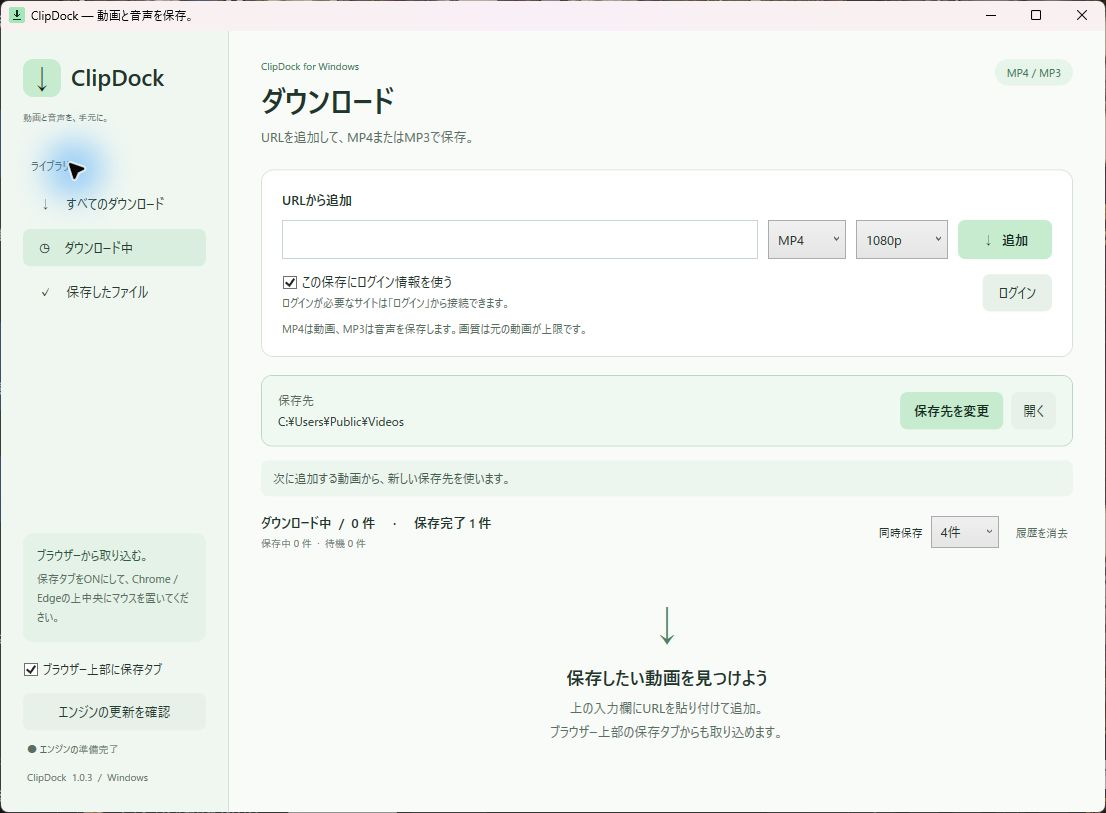
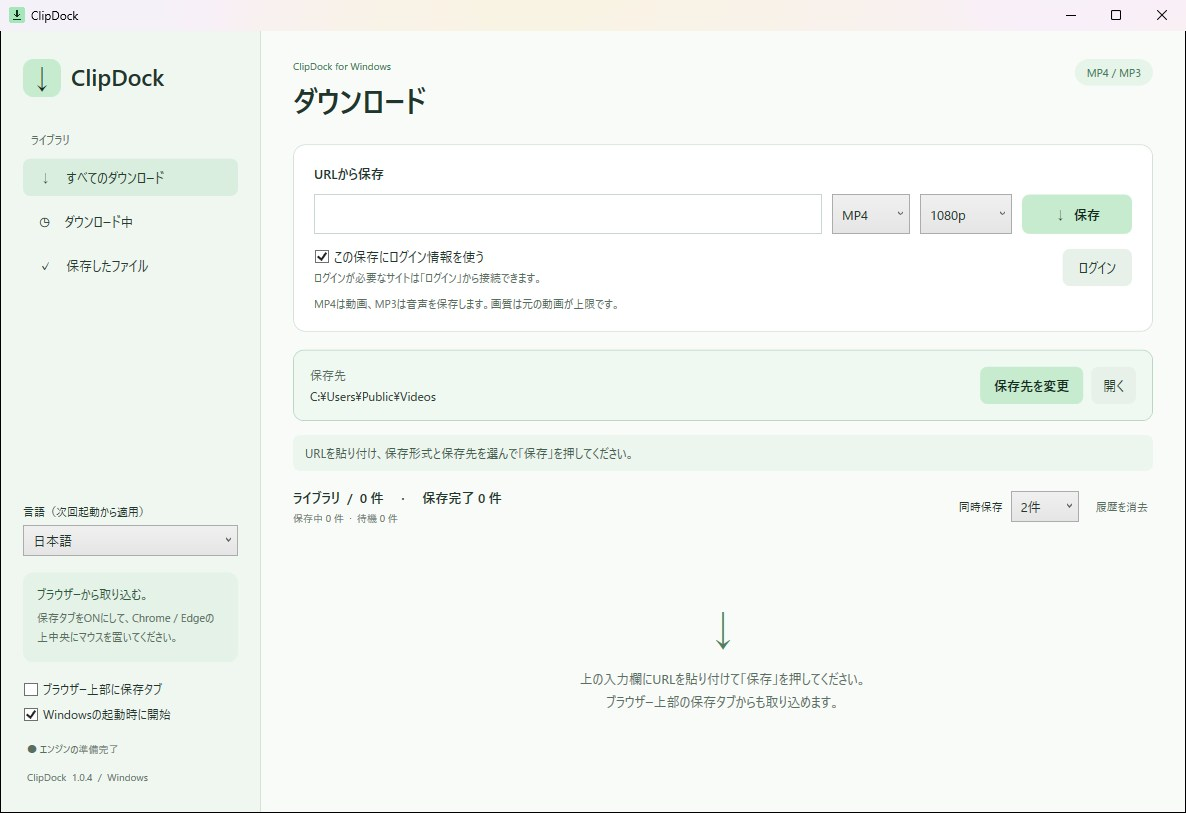
Show each language's app screenshot on its home page and fix the font per language
Every home page showed the Japanese 1.0.3 window. Each language now shows
the current Windows app in that language, and its home, help and privacy
pages use that screenshot as their page image. The site test requires a
separate screenshot per language.

Taking them showed the Windows app drew every language with Yu Gothic UI,
which turns a backslash into a yen sign and gives Chinese Japanese
letterforms. The main and login windows now pick the font by language
(Yu Gothic UI for Japanese, Microsoft YaHei UI for Chinese, Segoe UI for
English and Spanish), each with fallbacks for text in other scripts.

diff --git a/website/es/index.html b/website/es/index.html
@@ -18,7 +18,7 @@
 <meta property="og:title" content="ClipDock — Guarda vídeo MP4 y audio MP3 en Windows">
 <meta property="og:description" content="Pega una URL y guarda vídeo MP4 o audio MP3 en tu PC Windows o tu Mac. Descarga gratuita de ClipDock, guía de instalación, límites y política de privacidad.">
 <meta property="og:url" content="https://clipdock-d6z.pages.dev/es/">
-<meta property="og:image" content="https://clipdock-d6z.pages.dev/assets/clipdock-desktop.jpg">
+<meta property="og:image" content="https://clipdock-d6z.pages.dev/assets/clipdock-desktop-es.jpg">
 <meta property="og:locale" content="es_ES">
 <meta name="twitter:card" content="summary_large_image">
 <script type="application/ld+json">{"@context":"https://schema.org","@type":"SoftwareApplication","name":"ClipDock","url":"https://clipdock-d6z.pages.dev/es/","description":"Pega una URL y guarda vídeo MP4 o audio MP3 en tu PC Windows o tu Mac. Descarga gratuita de ClipDock, guía de instalación, límites y política de privacidad.","applicationCategory":"MultimediaApplication","operatingSystem":"Windows 10, Windows 11, macOS 14","softwareVersion":"1.0.4","downloadUrl":"https://clipdock-d6z.pages.dev/downloads/ClipDock-1.0.4-win-x64-unsigned-setup.exe","isAccessibleForFree":true,"inLanguage":["ja","en","zh-Hans","es"],"offers":{"@type":"Offer","price":"0","priceCurrency":"USD"}}</script>
@@ -34,7 +34,7 @@
 <p class="platform">Windows 10 / 11 (x64) · macOS 14 o posterior · Gratis</p><h1 id="title">Guarda vídeo en MP4.<br>Audio en MP3.</h1><p class="lead">Una aplicación para Windows y Mac para guardar vídeo y audio desde una URL. Elige el formato y la carpeta, y añade la descarga.</p>
 
 </div><aside class="format-summary"><h2>Elige el formato</h2><dl><div><dt>MP4</dt><dd>Guarda imagen y sonido</dd></div><div><dt>MP3</dt><dd>Guarda solo el audio</dd></div></dl><p>Los archivos se guardan en tu PC, en la carpeta que elijas.<br>Idiomas: 日本語 · English · 简体中文 · Español</p></aside><div class="download-block"><p class="download-heading">Descarga gratuita · Versión 1.0.4</p><div class="download-grid" role="group" aria-label="Descargar"><a class="button" href="/downloads/ClipDock-1.0.4-win-x64-unsigned-setup.exe" data-download="installer">Windows<small>Windows 10 / 11 (x64)</small></a><a class="button" href="/downloads/ClipDock-1.0.4-mac-arm64-unsigned.dmg" data-download="mac-arm64">Mac (Apple silicon)<small>macOS 14 o posterior · M1 o más reciente</small></a><a class="button" href="/downloads/ClipDock-1.0.4-mac-x64-unsigned.dmg" data-download="mac-x64">Mac (Intel)<small>macOS 14 o posterior · procesador Intel</small></a></div><div class="checksums"><p class="checksums-title">SHA-256 (haz clic en un valor para seleccionarlo entero)</p><dl class="checksum-list"><div><dt>Windows</dt><dd><code class="sha256" data-file="ClipDock-1.0.4-win-x64-unsigned-setup.exe">9ab8c0c8b8ba7f82e507894094b953b9c83245325be7d46764d8a8caf91376fa</code></dd></div><div><dt>Mac (Apple silicon)</dt><dd><code class="sha256" data-file="ClipDock-1.0.4-mac-arm64-unsigned.dmg">454e4417b3ebd2afcd8535cbd7252ed15af14fa085188835e9e61bb5db1fcc27</code></dd></div><div><dt>Mac (Intel)</dt><dd><code class="sha256" data-file="ClipDock-1.0.4-mac-x64-unsigned.dmg">8e6c31dba3816e717109e7c6b21b121c1461792eba690f2bebcb61bbdd407a80</code></dd></div></dl><p class="checksum-howto">Para comprobar un archivo, ejecuta <code>Get-FileHash nombre-del-archivo</code> en PowerShell (Windows) o <code>shasum -a 256 nombre-del-archivo</code> en Terminal (Mac) y compara el resultado con el valor de arriba. No importan las mayúsculas.</p></div><p class="download-note">El instalador de Windows no está firmado, por lo que Windows puede mostrar una advertencia de seguridad. La versión para Mac no está firmada ni certificada por Apple, por lo que macOS muestra una advertencia la primera vez que se abre.<br>Qué comprobar si aparece una advertencia: <a href="/es/help#windows-warning">Windows</a> · <a href="/es/help#mac-warning">Mac</a></p></div></section>
-<figure class="app-screen"><img src="/assets/clipdock-desktop.jpg" alt="ClipDock 1.0.3 para Windows · Interfaz en japonés" width="1106" height="813" fetchpriority="high"><figcaption>ClipDock 1.0.3 para Windows · Interfaz en japonés</figcaption></figure>
+<figure class="app-screen"><img src="/assets/clipdock-desktop-es.jpg" alt="ClipDock para Windows en español" width="1186" height="813" fetchpriority="high"><figcaption>ClipDock para Windows en español</figcaption></figure>
 <section id="features" class="section section-grid"><div class="section-heading"><h2>Elige formato, calidad y carpeta</h2></div><dl class="feature-list"><div><dt>Limita la resolución</dt><dd>Para MP4, elige 480p, 720p, 1080p, 4K o la mejor calidad disponible. 4K es un límite; ClipDock no amplía la resolución del original.</dd></div><div><dt>Consulta el progreso</dt><dd>Comprueba la descarga y la conversión, cancela una tarea o vuelve a intentarlo. Por defecto se procesan dos a la vez.</dd></div><div><dt>Añade una URL</dt><dd>Pega una URL HTTP(S) de una página o archivo de vídeo. En Windows, una pestaña opcional sobre Chrome o Edge también permite intentar importar la dirección.</dd></div></dl></section></div>
 <section class="installation" id="install"><div class="wrap section section-grid"><div class="section-heading"><h2>Primeros pasos</h2><p>El motor de descarga se obtiene automáticamente en el primer inicio.</p><a class="guide-link" href="/es/help#install">Leer la guía completa</a></div><ol class="steps"><li><h3>Instala ClipDock</h3><p>En Windows, descarga el EXE, cierra ClipDock y ejecuta el instalador. En Mac, abre el DMG y arrastra ClipDock a Aplicaciones.</p></li><li><h3>Abre la aplicación</h3><p>En el primer inicio se descarga el motor automáticamente. Requiere conexión a internet.</p></li><li><h3>Pega una URL y guarda</h3><p>Pega la URL en 「URLから保存」, elige MP4 o MP3 y una carpeta, y pulsa 「保存」 (Guardar).</p></li></ol></div></section>
 <div class="wrap"><section class="section section-grid" id="faq"><div class="section-heading"><h2>Preguntas frecuentes</h2></div><dl class="faq-list"><div><dt>¿Qué vídeos puedo guardar?</dt><dd>El motor permite descargar desde sitios compatibles y medios sin DRM, como HLS/DASH. Los cambios del sitio o sus condiciones de acceso pueden impedirlo. Descarga únicamente contenido que tengas derecho a guardar.</dd></div><div><dt>¿Funciona con vídeos que requieren iniciar sesión?</dt><dd>«Usar los datos de acceso para esta descarga» está activado por defecto. Primero inicia sesión en el sitio de origen desde la ventana de acceso de la aplicación, separada de Chrome y Edge. Las restricciones del sitio o la disponibilidad del contenido pueden impedir la descarga incluso con sesión iniciada.</dd></div><div><dt>¿Elegir 4K mejora la calidad?</dt><dd>La resolución seleccionada es un límite. Si la fuente solo ofrece 1080p, elegir 4K sigue dando como máximo 1080p. ClipDock no amplía la resolución.</dd></div><div><dt>¿Por qué Windows muestra una advertencia?</dt><dd>El instalador actual no tiene firma de código y Windows no puede verificar su editor. Comprueba que lo has descargado de este sitio oficial. La ayuda explica cómo revisar la advertencia.</dd></div><div><dt>¿Por qué macOS muestra una advertencia?</dt><dd>La versión actual para Mac no tiene firma de Apple Developer ID ni certificación de Apple, por lo que macOS no puede verificar al desarrollador. Comprueba que la has descargado de este sitio oficial. La ayuda explica cómo abrirla.</dd></div></dl></section><div class="bottom-download"><p>Windows 10 / 11 (x64) · macOS 14 o posterior · Gratis · Versión 1.0.4</p><div class="download-grid" role="group" aria-label="Descargar"><a class="button" href="/downloads/ClipDock-1.0.4-win-x64-unsigned-setup.exe" data-download="installer">Windows<small>Windows 10 / 11 (x64)</small></a><a class="button" href="/downloads/ClipDock-1.0.4-mac-arm64-unsigned.dmg" data-download="mac-arm64">Mac (Apple silicon)<small>macOS 14 o posterior · M1 o más reciente</small></a><a class="button" href="/downloads/ClipDock-1.0.4-mac-x64-unsigned.dmg" data-download="mac-x64">Mac (Intel)<small>macOS 14 o posterior · procesador Intel</small></a></div></div></div>

diff --git a/website/en/index.html b/website/en/index.html
@@ -18,7 +18,7 @@
 <meta property="og:title" content="ClipDock — Save MP4 video and MP3 audio on Windows">
 <meta property="og:description" content="Paste a video URL and save MP4 video or MP3 audio on your Windows PC or Mac. Free ClipDock download, setup instructions, limitations and privacy policy.">
 <meta property="og:url" content="https://clipdock-d6z.pages.dev/en/">
-<meta property="og:image" content="https://clipdock-d6z.pages.dev/assets/clipdock-desktop.jpg">
+<meta property="og:image" content="https://clipdock-d6z.pages.dev/assets/clipdock-desktop-en.jpg">
 <meta property="og:locale" content="en_US">
 <meta name="twitter:card" content="summary_large_image">
 <script type="application/ld+json">{"@context":"https://schema.org","@type":"SoftwareApplication","name":"ClipDock","url":"https://clipdock-d6z.pages.dev/en/","description":"Paste a video URL and save MP4 video or MP3 audio on your Windows PC or Mac. Free ClipDock download, setup instructions, limitations and privacy policy.","applicationCategory":"MultimediaApplication","operatingSystem":"Windows 10, Windows 11, macOS 14","softwareVersion":"1.0.4","downloadUrl":"https://clipdock-d6z.pages.dev/downloads/ClipDock-1.0.4-win-x64-unsigned-setup.exe","isAccessibleForFree":true,"inLanguage":["ja","en","zh-Hans","es"],"offers":{"@type":"Offer","price":"0","priceCurrency":"USD"}}</script>
@@ -34,7 +34,7 @@
 <p class="platform">Windows 10 / 11 (x64) · macOS 14 or later · Free</p><h1 id="title">Save video as MP4.<br>Save audio as MP3.</h1><p class="lead">An app for Windows and Mac for saving video and audio from a URL. Choose a format and a folder, then add the download.</p>
 
 </div><aside class="format-summary"><h2>Choose a format</h2><dl><div><dt>MP4</dt><dd>Save video and audio</dd></div><div><dt>MP3</dt><dd>Save audio only</dd></div></dl><p>Files stay on your PC, in the folder you choose.<br>App languages: 日本語 · English · 简体中文 · Español</p></aside><div class="download-block"><p class="download-heading">Free download · Version 1.0.4</p><div class="download-grid" role="group" aria-label="Download"><a class="button" href="/downloads/ClipDock-1.0.4-win-x64-unsigned-setup.exe" data-download="installer">Windows<small>Windows 10 / 11 (x64)</small></a><a class="button" href="/downloads/ClipDock-1.0.4-mac-arm64-unsigned.dmg" data-download="mac-arm64">Mac (Apple silicon)<small>macOS 14 or later · M1 or newer</small></a><a class="button" href="/downloads/ClipDock-1.0.4-mac-x64-unsigned.dmg" data-download="mac-x64">Mac (Intel)<small>macOS 14 or later · Intel processor</small></a></div><div class="checksums"><p class="checksums-title">SHA-256 (click a value to select all of it)</p><dl class="checksum-list"><div><dt>Windows</dt><dd><code class="sha256" data-file="ClipDock-1.0.4-win-x64-unsigned-setup.exe">9ab8c0c8b8ba7f82e507894094b953b9c83245325be7d46764d8a8caf91376fa</code></dd></div><div><dt>Mac (Apple silicon)</dt><dd><code class="sha256" data-file="ClipDock-1.0.4-mac-arm64-unsigned.dmg">454e4417b3ebd2afcd8535cbd7252ed15af14fa085188835e9e61bb5db1fcc27</code></dd></div><div><dt>Mac (Intel)</dt><dd><code class="sha256" data-file="ClipDock-1.0.4-mac-x64-unsigned.dmg">8e6c31dba3816e717109e7c6b21b121c1461792eba690f2bebcb61bbdd407a80</code></dd></div></dl><p class="checksum-howto">To check a file, run <code>Get-FileHash file-name</code> in PowerShell on Windows or <code>shasum -a 256 file-name</code> in Terminal on Mac, and compare the result with the value above. Letter case does not matter.</p></div><p class="download-note">The Windows installer is unsigned, so Windows may show a security warning. The Mac version is not signed or notarized, so macOS shows a warning the first time you open it.<br>What to check if a warning appears: <a href="/en/help#windows-warning">Windows</a> · <a href="/en/help#mac-warning">Mac</a></p></div></section>
-<figure class="app-screen"><img src="/assets/clipdock-desktop.jpg" alt="ClipDock 1.0.3 for Windows · Japanese app interface" width="1106" height="813" fetchpriority="high"><figcaption>ClipDock 1.0.3 for Windows · Japanese app interface</figcaption></figure>
+<figure class="app-screen"><img src="/assets/clipdock-desktop-en.jpg" alt="ClipDock for Windows in English" width="1186" height="813" fetchpriority="high"><figcaption>ClipDock for Windows in English</figcaption></figure>
 <section id="features" class="section section-grid"><div class="section-heading"><h2>Choose the format, quality and folder</h2></div><dl class="feature-list"><div><dt>Set a quality limit</dt><dd>Choose 480p, 720p, 1080p, 4K or best available for MP4. 4K is a resolution limit; ClipDock does not upscale the source.</dd></div><div><dt>Follow each download</dt><dd>See download and conversion progress, cancel a job or retry it. The default is two downloads at a time.</dd></div><div><dt>Add a URL</dt><dd>Paste an HTTP(S) video page or media URL. On Windows, an optional tab above Chrome or Edge can also try to import the address.</dd></div></dl></section></div>
 <section class="installation" id="install"><div class="wrap section section-grid"><div class="section-heading"><h2>Getting started</h2><p>The download engine is fetched automatically on first launch.</p><a class="guide-link" href="/en/help#install">Read the full guide</a></div><ol class="steps"><li><h3>Install ClipDock</h3><p>On Windows, download the EXE, close ClipDock and run the installer. On Mac, open the DMG and drag ClipDock into Applications.</p></li><li><h3>Open the app</h3><p>The first launch downloads the download engine automatically. This requires an internet connection.</p></li><li><h3>Paste a URL and save</h3><p>Paste a video URL into 「URLから保存」, choose MP4 or MP3 and a folder, then click 「保存」 (Save).</p></li></ol></div></section>
 <div class="wrap"><section class="section section-grid" id="faq"><div class="section-heading"><h2>Frequently asked questions</h2></div><dl class="faq-list"><div><dt>Which videos can I save?</dt><dd>Supported sites and non-DRM media such as HLS/DASH are handled by the download engine. Site changes and access conditions may prevent a download. Only download media you have the right to save.</dd></div><div><dt>Can it save videos that require a login?</dt><dd>“Use login information for this download” is on by default. Sign in to the site you want to save from through the app's Login window first. This is separate from existing Chrome or Edge sessions. A site's restrictions or a post's availability may still prevent a download.</dd></div><div><dt>Does choosing 4K improve the source?</dt><dd>The selected resolution is a limit. If the source is only available at 1080p, choosing 4K still gives you up to 1080p. ClipDock does not upscale it.</dd></div><div><dt>Why does Windows show a warning?</dt><dd>The current installer has no code signature, so Windows cannot verify its publisher. Check that you downloaded it from this official site. The help page explains how to review the warning.</dd></div><div><dt>Why does macOS show a warning?</dt><dd>The current Mac version has no Apple Developer ID signature or notarization, so macOS cannot verify its developer. Check that you downloaded it from this official site. The help page explains how to open it.</dd></div></dl></section><div class="bottom-download"><p>Windows 10 / 11 (x64) · macOS 14 or later · Free · Version 1.0.4</p><div class="download-grid" role="group" aria-label="Download"><a class="button" href="/downloads/ClipDock-1.0.4-win-x64-unsigned-setup.exe" data-download="installer">Windows<small>Windows 10 / 11 (x64)</small></a><a class="button" href="/downloads/ClipDock-1.0.4-mac-arm64-unsigned.dmg" data-download="mac-arm64">Mac (Apple silicon)<small>macOS 14 or later · M1 or newer</small></a><a class="button" href="/downloads/ClipDock-1.0.4-mac-x64-unsigned.dmg" data-download="mac-x64">Mac (Intel)<small>macOS 14 or later · Intel processor</small></a></div></div></div>

diff --git a/website/zh-cn/index.html b/website/zh-cn/index.html
@@ -18,7 +18,7 @@
 <meta property="og:title" content="ClipDock — 在 Windows 和 Mac 上保存 MP4 视频和 MP3 音频">
 <meta property="og:description" content="粘贴视频网址，将 MP4 视频或 MP3 音频保存到 Windows 电脑或 Mac。免费下载 ClipDock，查看安装步骤、适用范围和隐私政策。">
 <meta property="og:url" content="https://clipdock-d6z.pages.dev/zh-cn/">
-<meta property="og:image" content="https://clipdock-d6z.pages.dev/assets/clipdock-desktop.jpg">
+<meta property="og:image" content="https://clipdock-d6z.pages.dev/assets/clipdock-desktop-zh-cn.jpg">
 <meta property="og:locale" content="zh_CN">
 <meta name="twitter:card" content="summary_large_image">
 <script type="application/ld+json">{"@context":"https://schema.org","@type":"SoftwareApplication","name":"ClipDock","url":"https://clipdock-d6z.pages.dev/zh-cn/","description":"粘贴视频网址，将 MP4 视频或 MP3 音频保存到 Windows 电脑或 Mac。免费下载 ClipDock，查看安装步骤、适用范围和隐私政策。","applicationCategory":"MultimediaApplication","operatingSystem":"Windows 10, Windows 11, macOS 14","softwareVersion":"1.0.4","downloadUrl":"https://clipdock-d6z.pages.dev/downloads/ClipDock-1.0.4-win-x64-unsigned-setup.exe","isAccessibleForFree":true,"inLanguage":["ja","en","zh-Hans","es"],"offers":{"@type":"Offer","price":"0","priceCurrency":"USD"}}</script>
@@ -34,7 +34,7 @@
 <p class="platform">Windows 10 / 11（x64） · macOS 14 及以上 · 免费</p><h1 id="title">视频保存为 MP4，<br>音频保存为 MP3。</h1><p class="lead">粘贴视频网址，选择格式和保存文件夹，即可在 Windows 电脑或 Mac 上保存视频或音频。</p>
 
 </div><aside class="format-summary"><h2>选择保存格式</h2><dl><div><dt>MP4</dt><dd>保存画面和声音</dd></div><div><dt>MP3</dt><dd>仅保存音频</dd></div></dl><p>文件保存在自己的电脑上，可自行选择文件夹。<br>应用语言：日本語 · English · 简体中文 · Español</p></aside><div class="download-block"><p class="download-heading">免费下载 · 版本 1.0.4</p><div class="download-grid" role="group" aria-label="下载"><a class="button" href="/downloads/ClipDock-1.0.4-win-x64-unsigned-setup.exe" data-download="installer">Windows 版<small>Windows 10 / 11（x64）</small></a><a class="button" href="/downloads/ClipDock-1.0.4-mac-arm64-unsigned.dmg" data-download="mac-arm64">Mac 版（Apple 芯片）<small>macOS 14 及以上 · M1 及更新机型</small></a><a class="button" href="/downloads/ClipDock-1.0.4-mac-x64-unsigned.dmg" data-download="mac-x64">Mac 版（Intel）<small>macOS 14 及以上 · Intel 处理器</small></a></div><div class="checksums"><p class="checksums-title">SHA-256（点击即可选中整个值）</p><dl class="checksum-list"><div><dt>Windows</dt><dd><code class="sha256" data-file="ClipDock-1.0.4-win-x64-unsigned-setup.exe">9ab8c0c8b8ba7f82e507894094b953b9c83245325be7d46764d8a8caf91376fa</code></dd></div><div><dt>Mac（Apple 芯片）</dt><dd><code class="sha256" data-file="ClipDock-1.0.4-mac-arm64-unsigned.dmg">454e4417b3ebd2afcd8535cbd7252ed15af14fa085188835e9e61bb5db1fcc27</code></dd></div><div><dt>Mac（Intel）</dt><dd><code class="sha256" data-file="ClipDock-1.0.4-mac-x64-unsigned.dmg">8e6c31dba3816e717109e7c6b21b121c1461792eba690f2bebcb61bbdd407a80</code></dd></div></dl><p class="checksum-howto">校验方法：在 Windows 的 PowerShell 中运行 <code>Get-FileHash 文件名</code>，或在 Mac 的终端中运行 <code>shasum -a 256 文件名</code>，并与上面的值比较。字母不区分大小写。</p></div><p class="download-note">Windows 版安装程序未进行代码签名，Windows 可能会显示安全警告。Mac 版未经签名和公证，首次打开时 macOS 会显示警告。<br>出现警告时如何确认：<a href="/zh-cn/help#windows-warning">Windows</a> · <a href="/zh-cn/help#mac-warning">Mac</a></p></div></section>
-<figure class="app-screen"><img src="/assets/clipdock-desktop.jpg" alt="ClipDock 1.0.3 Windows 应用界面（日语）" width="1106" height="813" fetchpriority="high"><figcaption>ClipDock 1.0.3 Windows 应用界面（日语）</figcaption></figure>
+<figure class="app-screen"><img src="/assets/clipdock-desktop-zh-cn.jpg" alt="ClipDock Windows 应用界面（简体中文）" width="1186" height="813" fetchpriority="high"><figcaption>ClipDock Windows 应用界面（简体中文）</figcaption></figure>
 <section id="features" class="section section-grid"><div class="section-heading"><h2>指定格式、画质和保存位置</h2></div><dl class="feature-list"><div><dt>设置画质上限</dt><dd>MP4 可选择 480p、720p、1080p、4K 或最佳可用画质。4K 是分辨率上限，不会将原视频放大。</dd></div><div><dt>查看保存进度</dt><dd>查看下载和转换进度，按需取消或重试。默认同时处理两个任务。</dd></div><div><dt>通过网址添加</dt><dd>输入视频页面或媒体文件的 HTTP(S) 网址，Windows 版还可尝试使用 Chrome、Edge 上方的可选标签导入地址。</dd></div></dl></section></div>
 <section class="installation" id="install"><div class="wrap section section-grid"><div class="section-heading"><h2>开始使用</h2><p>首次启动时会自动下载引擎。</p><a class="guide-link" href="/zh-cn/help#install">查看完整使用说明</a></div><ol class="steps"><li><h3>安装应用</h3><p>Windows 用户请下载 EXE，关闭 ClipDock 后运行安装程序。Mac 用户请打开 DMG，将 ClipDock 拖入“应用程序”。</p></li><li><h3>打开应用</h3><p>首次启动时会自动下载引擎，需要联网。</p></li><li><h3>粘贴网址并保存</h3><p>在「URLから保存」中粘贴视频网址，选择 MP4 或 MP3 及保存位置，然后点击「保存」（保存）。</p></li></ol></div></section>
 <div class="wrap"><section class="section section-grid" id="faq"><div class="section-heading"><h2>常见问题</h2></div><dl class="faq-list"><div><dt>可以保存哪些视频？</dt><dd>支持下载引擎可处理的网站视频以及未受 DRM 保护的 HLS、DASH 等媒体。网站变化或访问条件可能导致无法保存。请仅下载您有权保存的内容。</dd></div><div><dt>可以保存需要登录的视频吗？</dt><dd>“在此次保存中使用登录信息”默认开启。首次使用时，请通过应用的登录窗口登录您要保存内容的网站，与 Chrome、Edge 的现有会话分开。即使已登录，网站限制或帖子的公开状态仍可能导致无法保存。</dd></div><div><dt>选择 4K 会提升画质吗？</dt><dd>所选分辨率是上限。如果源视频最高为 1080p，选择 4K 后仍最多保存为 1080p，不会进行放大处理。</dd></div><div><dt>为什么 Windows 会显示警告？</dt><dd>当前安装程序未进行代码签名，Windows 无法验证发布者。请确认文件来自本官方网站。帮助页提供了详细的确认方法。</dd></div><div><dt>为什么 macOS 会显示警告？</dt><dd>当前 Mac 版没有 Apple Developer ID 签名，也未经公证，macOS 无法验证开发者。请确认文件来自本官方网站。帮助页说明了打开方法。</dd></div></dl></section><div class="bottom-download"><p>Windows 10 / 11（x64） · macOS 14 及以上 · 免费 · 版本 1.0.4</p><div class="download-grid" role="group" aria-label="下载"><a class="button" href="/downloads/ClipDock-1.0.4-win-x64-unsigned-setup.exe" data-download="installer">Windows 版<small>Windows 10 / 11（x64）</small></a><a class="button" href="/downloads/ClipDock-1.0.4-mac-arm64-unsigned.dmg" data-download="mac-arm64">Mac 版（Apple 芯片）<small>macOS 14 及以上 · M1 及更新机型</small></a><a class="button" href="/downloads/ClipDock-1.0.4-mac-x64-unsigned.dmg" data-download="mac-x64">Mac 版（Intel）<small>macOS 14 及以上 · Intel 处理器</small></a></div></div></div>

diff --git a/website/index.html b/website/index.html
@@ -34,7 +34,7 @@
 <p class="platform">Windows 10 / 11（x64） · macOS 14以降 · 無料</p><h1 id="title">動画はMP4、<br>音声はMP3で保存。</h1><p class="lead">動画のURLを貼り付け、形式と保存先を選んで保存するWindows・Mac用アプリです。</p>
 
 </div><aside class="format-summary"><h2>保存する形式を選ぶ</h2><dl><div><dt>MP4</dt><dd>映像と音声を保存</dd></div><div><dt>MP3</dt><dd>音声だけを保存</dd></div></dl><p>保存先は自分のPC。フォルダーを指定できます。<br>アプリの表示言語：日本語・English・简体中文・Español</p></aside><div class="download-block"><p class="download-heading">無料ダウンロード · バージョン 1.0.4</p><div class="download-grid" role="group" aria-label="ダウンロード"><a class="button" href="/downloads/ClipDock-1.0.4-win-x64-unsigned-setup.exe" data-download="installer">Windows版<small>Windows 10 / 11（x64）</small></a><a class="button" href="/downloads/ClipDock-1.0.4-mac-arm64-unsigned.dmg" data-download="mac-arm64">Mac版（Appleシリコン）<small>macOS 14以降 · M1以降のMac</small></a><a class="button" href="/downloads/ClipDock-1.0.4-mac-x64-unsigned.dmg" data-download="mac-x64">Mac版（Intel）<small>macOS 14以降 · Intel搭載のMac</small></a></div><div class="checksums"><p class="checksums-title">SHA-256（クリックすると値全体を選択できます）</p><dl class="checksum-list"><div><dt>Windows</dt><dd><code class="sha256" data-file="ClipDock-1.0.4-win-x64-unsigned-setup.exe">9ab8c0c8b8ba7f82e507894094b953b9c83245325be7d46764d8a8caf91376fa</code></dd></div><div><dt>Mac（Appleシリコン）</dt><dd><code class="sha256" data-file="ClipDock-1.0.4-mac-arm64-unsigned.dmg">454e4417b3ebd2afcd8535cbd7252ed15af14fa085188835e9e61bb5db1fcc27</code></dd></div><div><dt>Mac（Intel）</dt><dd><code class="sha256" data-file="ClipDock-1.0.4-mac-x64-unsigned.dmg">8e6c31dba3816e717109e7c6b21b121c1461792eba690f2bebcb61bbdd407a80</code></dd></div></dl><p class="checksum-howto">確認方法：WindowsはPowerShellで <code>Get-FileHash ファイル名</code>、Macはターミナルで <code>shasum -a 256 ファイル名</code> を実行し、上の値と比べます。英字の大文字・小文字は区別しません。</p></div><p class="download-note">Windows版のインストーラーは未署名のため、Windowsに警告が表示される場合があります。Mac版は署名・公証がないため、初回の起動時にmacOSが警告を表示します。<br>警告が出たときの確認方法：<a href="/help#windows-warning">Windows</a> · <a href="/help#mac-warning">Mac</a></p></div></section>
-<figure class="app-screen"><img src="/assets/clipdock-desktop.jpg" alt="ClipDock 1.0.3のWindowsアプリ画面" width="1106" height="813" fetchpriority="high"><figcaption>ClipDock 1.0.3のWindowsアプリ画面</figcaption></figure>
+<figure class="app-screen"><img src="/assets/clipdock-desktop.jpg" alt="ClipDockのWindowsアプリ画面" width="1186" height="813" fetchpriority="high"><figcaption>ClipDockのWindowsアプリ画面</figcaption></figure>
 <section id="features" class="section section-grid"><div class="section-heading"><h2>形式、画質、保存先を指定</h2></div><dl class="feature-list"><div><dt>画質の上限を選ぶ</dt><dd>MP4は480p・720p・1080p・4K・最高画質から選べます。4Kは解像度の上限で、元の動画を拡大する機能ではありません。</dd></div><div><dt>保存状況を確認する</dt><dd>取得・変換の進捗を確認し、必要に応じてキャンセルや再試行ができます。初期設定では2件を同時に保存します。</dd></div><div><dt>URLから保存する</dt><dd>動画ページや動画ファイルのHTTP(S) URLを入力します。Windows版ではChrome・Edge向けの任意の保存タブから、URLの取り込みを試すこともできます。</dd></div></dl></section></div>
 <section class="installation" id="install"><div class="wrap section section-grid"><div class="section-heading"><h2>はじめ方</h2><p>保存エンジンは初回の起動時に自動で取得します。</p><a class="guide-link" href="/help#install">詳しい使い方</a></div><ol class="steps"><li><h3>アプリをインストール</h3><p>WindowsではEXEを取得し、起動中のClipDockを閉じてから実行します。MacではDMGを開き、ClipDockを「アプリケーション」へドラッグします。</p></li><li><h3>アプリを起動</h3><p>初回の起動時に保存エンジンを自動で取得します。取得にはインターネット接続が必要です。</p></li><li><h3>URLを貼り付けて保存</h3><p>「URLから保存」に動画のURLを貼り付け、MP4またはMP3と保存先を選び、「保存」を押します。</p></li></ol></div></section>
 <div class="wrap"><section class="section section-grid" id="faq"><div class="section-heading"><h2>よくある質問</h2></div><dl class="faq-list"><div><dt>どの動画を保存できますか？</dt><dd>保存エンジンが対応するサイトの動画と、非DRMのHLS/DASHなどが対象です。サイトの変更や公開条件により、保存できない場合があります。ダウンロードする権利のある動画に利用してください。</dd></div><div><dt>ログインが必要な動画にも使えますか？</dt><dd>「この保存にログイン情報を使う」は初期ONです。初回はアプリの「ログイン」から保存対象のサイトへサインインしてください。Chrome・Edgeの既存セッションとは別です。投稿の公開条件やサイト制限によっては、ログインしても保存できない場合があります。</dd></div><div><dt>4Kを選ぶと画質が上がりますか？</dt><dd>指定した解像度は上限です。元の配信が1080pまでなら、4Kを選んでも1080pになります。拡大処理は行いません。</dd></div><div><dt>Windowsに警告が出るのはなぜですか？</dt><dd>現在のインストーラーにはコード署名がなく、Windowsが発行元を確認できません。公式サイトから取得したことを確認してください。詳しい確認方法はヘルプに記載しています。</dd></div><div><dt>Macで警告が出るのはなぜですか？</dt><dd>現在のMac版にはApple Developer IDの署名と公証がなく、macOSが開発元を確認できません。公式サイトから取得したことを確認してください。開く手順はヘルプに記載しています。</dd></div></dl></section><div class="bottom-download"><p>Windows 10 / 11（x64） · macOS 14以降 · 無料 · バージョン 1.0.4</p><div class="download-grid" role="group" aria-label="ダウンロード"><a class="button" href="/downloads/ClipDock-1.0.4-win-x64-unsigned-setup.exe" data-download="installer">Windows版<small>Windows 10 / 11（x64）</small></a><a class="button" href="/downloads/ClipDock-1.0.4-mac-arm64-unsigned.dmg" data-download="mac-arm64">Mac版（Appleシリコン）<small>macOS 14以降 · M1以降のMac</small></a><a class="button" href="/downloads/ClipDock-1.0.4-mac-x64-unsigned.dmg" data-download="mac-x64">Mac版（Intel）<small>macOS 14以降 · Intel搭載のMac</small></a></div></div></div>

diff --git a/tests/site.test.js b/tests/site.test.js
@@ -66,6 +66,20 @@ test("download links name the current release and are served by the download fun
   }
 });
 
+// Each language shows (and shares) a screenshot of the app in that language.
+test("every home page shows its own language's app screenshot, also as the page image of its language", () => {
+  const screenshots = new Set();
+  for (const prefix of Object.keys(languages)) {
+    const figure = byUrl.get(`/${prefix}`).html.match(/<figure class="app-screen">[\s\S]*?<\/figure>/);
+    assert.ok(figure, `/${prefix} has no app screenshot`);
+    const image = tags(figure[0], "img")[0];
+    screenshots.add(image.src);
+    for (const name of ["", "help", "privacy"])
+      assert.equal(tags(byUrl.get(`/${prefix}${name}`).html, "meta").find(t => t.property === "og:image")?.content, origin + image.src, `/${prefix}${name}`);
+  }
+  assert.equal(screenshots.size, Object.keys(languages).length, "two languages share one screenshot");
+});
+
 // The checksums are printed on each home page for copying instead of being linked as .sha256 downloads.
 test("every home page shows one SHA-256 per release file, the same in every language", () => {
   let reference;

diff --git a/website/zh-cn/help.html b/website/zh-cn/help.html
@@ -18,7 +18,7 @@
 <meta property="og:title" content="使用帮助 — ClipDock">
 <meta property="og:description" content="ClipDock 安装、MP4 与 MP3 保存、保存位置、可选浏览器标签，以及 Windows 警告和下载失败的处理方法。">
 <meta property="og:url" content="https://clipdock-d6z.pages.dev/zh-cn/help">
-<meta property="og:image" content="https://clipdock-d6z.pages.dev/assets/clipdock-desktop.jpg">
+<meta property="og:image" content="https://clipdock-d6z.pages.dev/assets/clipdock-desktop-zh-cn.jpg">
 <meta property="og:locale" content="zh_CN">
 <meta name="twitter:card" content="summary_large_image">
 

diff --git a/website/es/privacy.html b/website/es/privacy.html
@@ -18,7 +18,7 @@
 <meta property="og:title" content="Privacidad — ClipDock">
 <meta property="og:description" content="Cómo trata ClipDock las URL, el historial local, la importación opcional de direcciones y las visitas al sitio alojado en Cloudflare.">
 <meta property="og:url" content="https://clipdock-d6z.pages.dev/es/privacy">
-<meta property="og:image" content="https://clipdock-d6z.pages.dev/assets/clipdock-desktop.jpg">
+<meta property="og:image" content="https://clipdock-d6z.pages.dev/assets/clipdock-desktop-es.jpg">
 <meta property="og:locale" content="es_ES">
 <meta name="twitter:card" content="summary_large_image">
 

diff --git a/website/zh-cn/privacy.html b/website/zh-cn/privacy.html
@@ -18,7 +18,7 @@
 <meta property="og:title" content="隐私政策 — ClipDock">
 <meta property="og:description" content="ClipDock 对网址、本地下载历史、可选浏览器地址导入及 Cloudflare 托管网站访问数据的处理方式。">
 <meta property="og:url" content="https://clipdock-d6z.pages.dev/zh-cn/privacy">
-<meta property="og:image" content="https://clipdock-d6z.pages.dev/assets/clipdock-desktop.jpg">
+<meta property="og:image" content="https://clipdock-d6z.pages.dev/assets/clipdock-desktop-zh-cn.jpg">
 <meta property="og:locale" content="zh_CN">
 <meta name="twitter:card" content="summary_large_image">
 

diff --git a/website/en/privacy.html b/website/en/privacy.html
@@ -18,7 +18,7 @@
 <meta property="og:title" content="Privacy policy — ClipDock">
 <meta property="og:description" content="How ClipDock handles URLs, local download history, optional browser address import and traffic to its Cloudflare-hosted website.">
 <meta property="og:url" content="https://clipdock-d6z.pages.dev/en/privacy">
-<meta property="og:image" content="https://clipdock-d6z.pages.dev/assets/clipdock-desktop.jpg">
+<meta property="og:image" content="https://clipdock-d6z.pages.dev/assets/clipdock-desktop-en.jpg">
 <meta property="og:locale" content="en_US">
 <meta name="twitter:card" content="summary_large_image">
 

diff --git a/website/es/help.html b/website/es/help.html
@@ -18,7 +18,7 @@
 <meta property="og:title" content="Ayuda — ClipDock">
 <meta property="og:description" content="Instala ClipDock, guarda MP4 o MP3, elige una carpeta y consulta cómo usar la pestaña del navegador o resolver advertencias y errores.">
 <meta property="og:url" content="https://clipdock-d6z.pages.dev/es/help">
-<meta property="og:image" content="https://clipdock-d6z.pages.dev/assets/clipdock-desktop.jpg">
+<meta property="og:image" content="https://clipdock-d6z.pages.dev/assets/clipdock-desktop-es.jpg">
 <meta property="og:locale" content="es_ES">
 <meta name="twitter:card" content="summary_large_image">
 

diff --git a/website/en/help.html b/website/en/help.html
@@ -18,7 +18,7 @@
 <meta property="og:title" content="Help — ClipDock">
 <meta property="og:description" content="Install ClipDock, save MP4 or MP3, choose a folder, use the optional browser tab, and troubleshoot Windows warnings or failed downloads.">
 <meta property="og:url" content="https://clipdock-d6z.pages.dev/en/help">
-<meta property="og:image" content="https://clipdock-d6z.pages.dev/assets/clipdock-desktop.jpg">
+<meta property="og:image" content="https://clipdock-d6z.pages.dev/assets/clipdock-desktop-en.jpg">
 <meta property="og:locale" content="en_US">
 <meta name="twitter:card" content="summary_large_image">
 

diff --git a/src/ClipDock.App/UiFont.cs b/src/ClipDock.App/UiFont.cs
@@ -1,0 +1,16 @@
+using System.Windows.Media;
+
+namespace ClipDock.App;
+
+// The window font follows the display language. Yu Gothic UI shows a backslash as a yen sign and draws Chinese
+// in Japanese letterforms, so only Japanese starts with it; the other fonts in each list cover any remaining text,
+// such as a video title in another script.
+internal static class UiFont
+{
+    internal static FontFamily For(string language) => new(language switch
+    {
+        "ja" => "Yu Gothic UI, Segoe UI",
+        "zh-CN" => "Microsoft YaHei UI, Segoe UI, Yu Gothic UI",
+        _ => "Segoe UI, Yu Gothic UI, Microsoft YaHei UI"
+    });
+}
